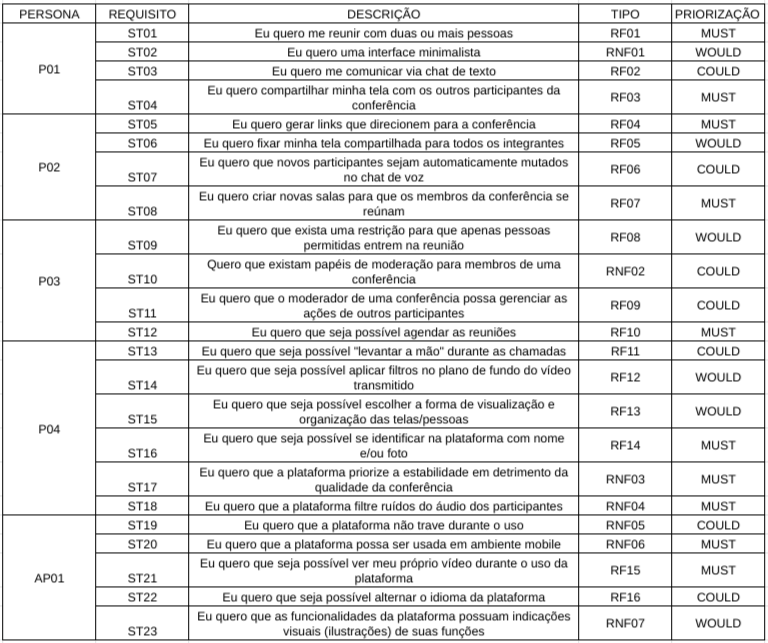
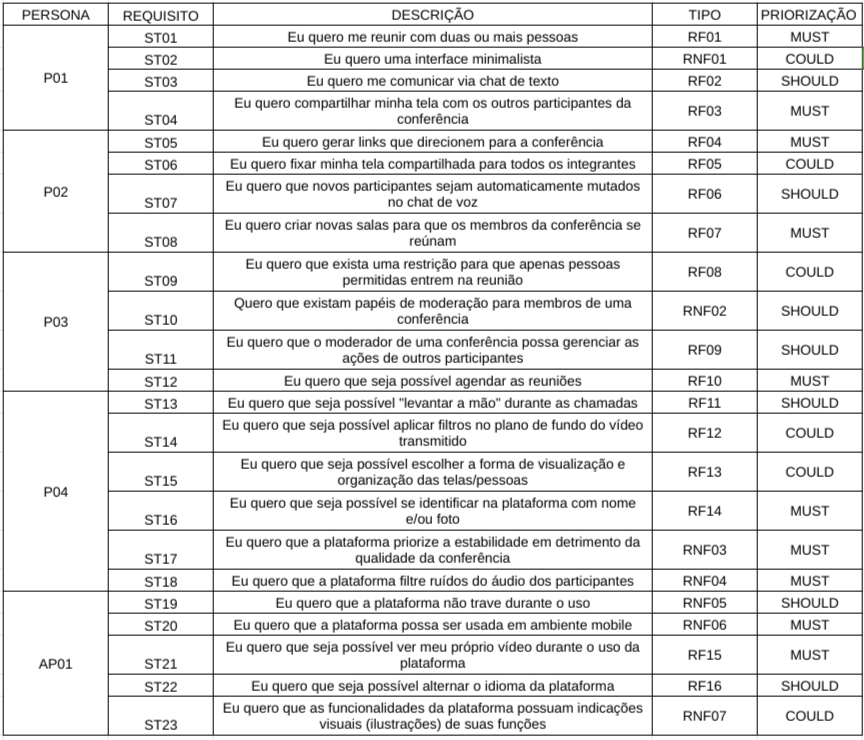
:bug: conserta a priorizacao com moscow

diff --git a/docs/elicitacao/personas.md b/docs/elicitacao/personas.md
@@ -192,10 +192,10 @@ Para a priorização dos requisitos do projeto Jitsi Meet foram  utilizados apen
 
 ## Priorização dos Requisitos Elicitados
 
-Abaixo estão os requisitos elicitados com a técnica do Storytelling e priorizados com a técnica _MoSCoW_. A priorização está dividida entre os três termos adotados na técnica: **Must**, **Could** e **Would**.
+Abaixo estão os requisitos elicitados com a técnica do Storytelling e priorizados com a técnica _MoSCoW_. A priorização está dividida entre os três termos adotados na técnica: **Must**, **Should** e **Could**.
 
-![Priorização realizada com a técnica MosCoW](../assets/elicitacao/priorizacao_storytelling_moscow.png){width="900"}
-*Priorização realizada com a técnica MosCoW* 
+![Priorização realizada com a técnica MoSCoW](../assets/elicitacao/priorizacao_storytelling_moscow.png){width="900"}
+*Priorização realizada com a técnica MoSCoW* 
 
 ---
 
